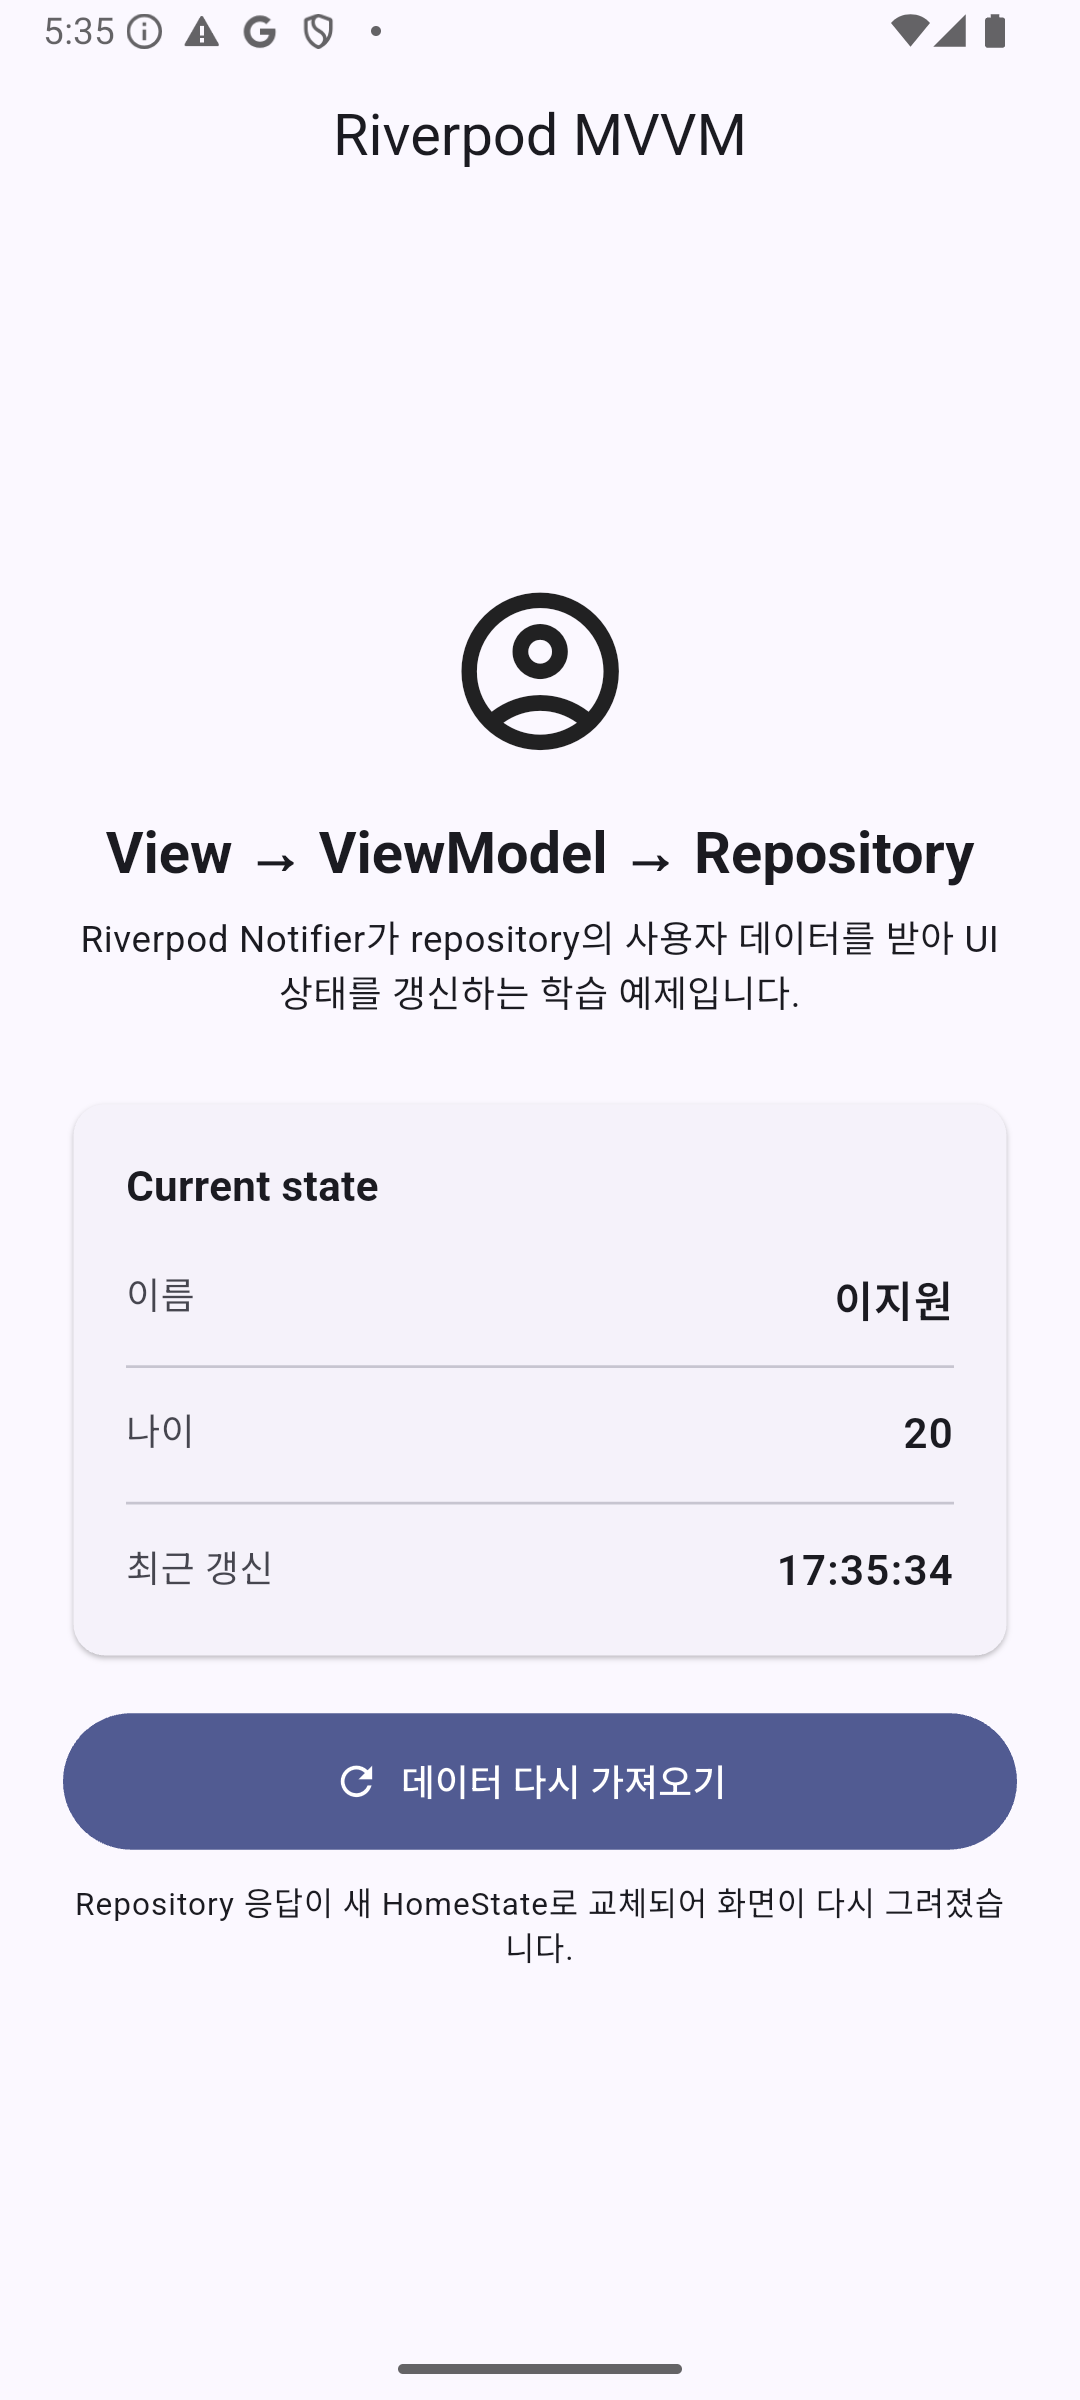
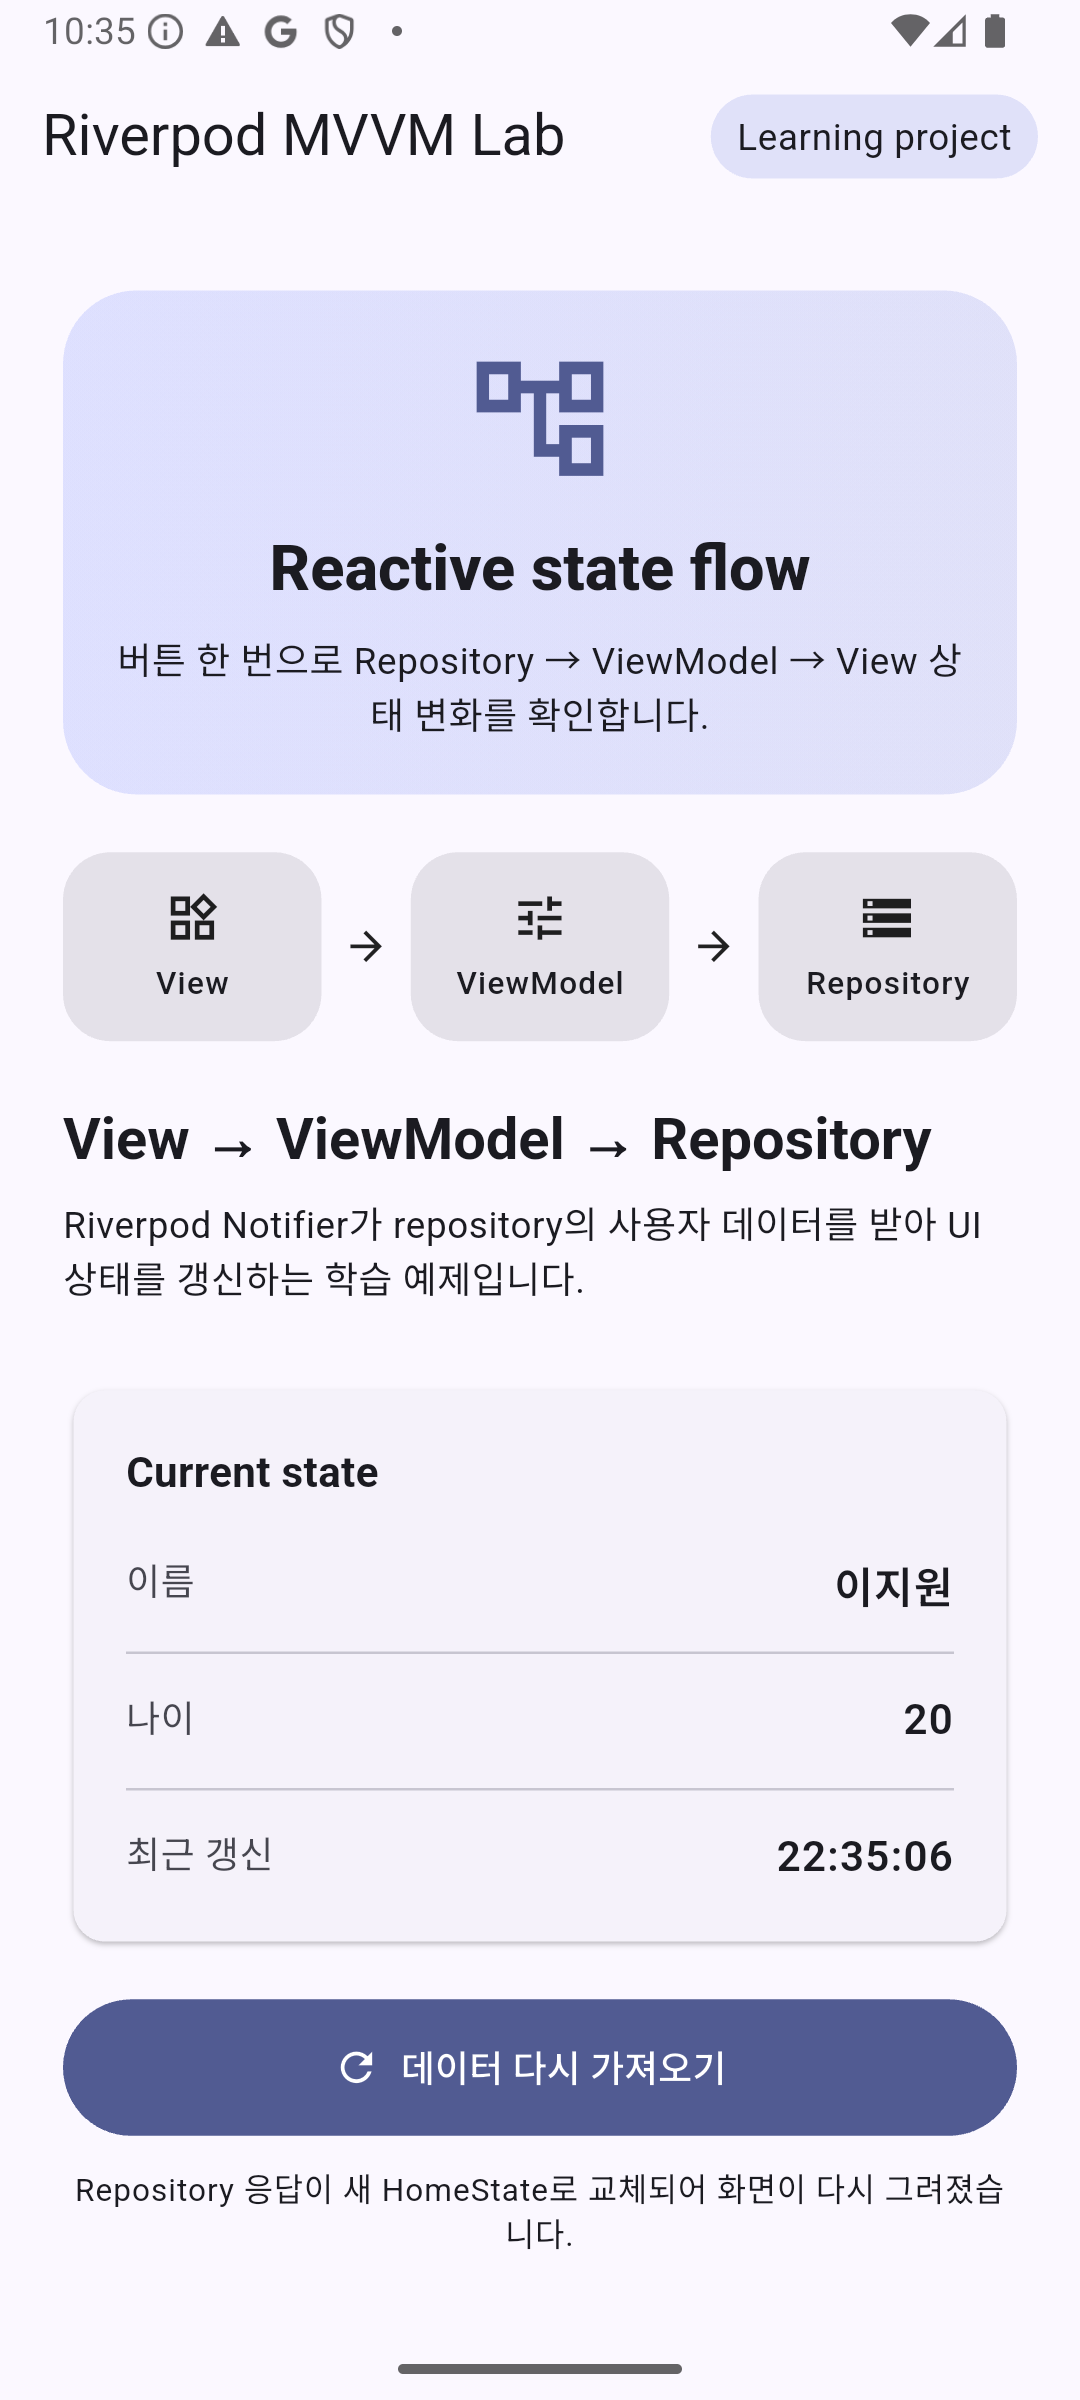
Polish Riverpod MVVM mobile demo

diff --git a/lib/home_page.dart b/lib/home_page.dart
@@ -12,8 +12,23 @@ class HomePage extends ConsumerWidget {
 
     return Scaffold(
       appBar: AppBar(
-        title: const Text('Riverpod MVVM'),
-        centerTitle: true,
+        title: const Text('Riverpod MVVM Lab'),
+        actions: [
+          Padding(
+            padding: const EdgeInsets.only(right: 16),
+            child: Center(
+              child: Container(
+                padding:
+                    const EdgeInsets.symmetric(horizontal: 10, vertical: 6),
+                decoration: BoxDecoration(
+                  color: Theme.of(context).colorScheme.secondaryContainer,
+                  borderRadius: BorderRadius.circular(999),
+                ),
+                child: const Text('Learning project'),
+              ),
+            ),
+          ),
+        ],
       ),
       body: SafeArea(
         child: Center(
@@ -24,11 +39,49 @@ class HomePage extends ConsumerWidget {
               child: Column(
                 crossAxisAlignment: CrossAxisAlignment.stretch,
                 children: [
-                  const Icon(Icons.account_circle_outlined, size: 72),
-                  const SizedBox(height: 18),
+                  Container(
+                    padding: const EdgeInsets.all(20),
+                    decoration: BoxDecoration(
+                      gradient: LinearGradient(
+                        colors: [
+                          Theme.of(context).colorScheme.primaryContainer,
+                          Theme.of(context).colorScheme.secondaryContainer,
+                        ],
+                      ),
+                      borderRadius: BorderRadius.circular(28),
+                    ),
+                    child: Column(
+                      children: [
+                        Icon(
+                          Icons.account_tree_outlined,
+                          size: 58,
+                          color: Theme.of(context).colorScheme.primary,
+                        ),
+                        const SizedBox(height: 12),
+                        Text(
+                          'Reactive state flow',
+                          style: Theme.of(context)
+                              .textTheme
+                              .headlineSmall
+                              ?.copyWith(
+                                fontWeight: FontWeight.w800,
+                              ),
+                        ),
+                        const SizedBox(height: 8),
+                        Text(
+                          '버튼 한 번으로 Repository → ViewModel → View 상태 변화를 확인합니다.',
+                          textAlign: TextAlign.center,
+                          style: Theme.of(context).textTheme.bodyMedium,
+                        ),
+                      ],
+                    ),
+                  ),
+                  const SizedBox(height: 22),
+                  const _FlowRow(),
+                  const SizedBox(height: 22),
                   Text(
                     'View → ViewModel → Repository',
-                    textAlign: TextAlign.center,
+                    textAlign: TextAlign.left,
                     style: Theme.of(context).textTheme.titleLarge?.copyWith(
                           fontWeight: FontWeight.bold,
                         ),
@@ -36,7 +89,7 @@ class HomePage extends ConsumerWidget {
                   const SizedBox(height: 8),
                   Text(
                     'Riverpod Notifier가 repository의 사용자 데이터를 받아 UI 상태를 갱신하는 학습 예제입니다.',
-                    textAlign: TextAlign.center,
+                    textAlign: TextAlign.left,
                     style: Theme.of(context).textTheme.bodyMedium,
                   ),
                   const SizedBox(height: 28),
@@ -58,7 +111,7 @@ class HomePage extends ConsumerWidget {
                           const SizedBox(height: 18),
                           _StateRow(
                             label: '이름',
-                            value: state.user?.name ?? '아직 불러오지 않음',
+                            value: state.user?.name ?? '대기 중',
                           ),
                           const Divider(height: 28),
                           _StateRow(
@@ -78,11 +131,25 @@ class HomePage extends ConsumerWidget {
                   ),
                   const SizedBox(height: 18),
                   FilledButton.icon(
-                    onPressed: () {
-                      ref.read(homeViewModelProvider.notifier).getUser();
-                    },
-                    icon: Icon(hasUser ? Icons.refresh : Icons.download),
-                    label: Text(hasUser ? '데이터 다시 가져오기' : '사용자 데이터 가져오기'),
+                    onPressed: state.isLoading
+                        ? null
+                        : () {
+                            ref.read(homeViewModelProvider.notifier).getUser();
+                          },
+                    icon: state.isLoading
+                        ? const SizedBox(
+                            width: 18,
+                            height: 18,
+                            child: CircularProgressIndicator(strokeWidth: 2),
+                          )
+                        : Icon(hasUser ? Icons.refresh : Icons.download),
+                    label: Text(
+                      state.isLoading
+                          ? 'Repository 응답 기다리는 중'
+                          : hasUser
+                              ? '데이터 다시 가져오기'
+                              : '사용자 데이터 가져오기',
+                    ),
                     style: FilledButton.styleFrom(
                       minimumSize: const Size.fromHeight(52),
                     ),
@@ -107,6 +174,48 @@ class HomePage extends ConsumerWidget {
   String _formatTime(DateTime time) {
     String two(int value) => value.toString().padLeft(2, '0');
     return '${two(time.hour)}:${two(time.minute)}:${two(time.second)}';
+  }
+}
+
+class _FlowRow extends StatelessWidget {
+  const _FlowRow();
+
+  @override
+  Widget build(BuildContext context) {
+    Widget step(IconData icon, String label) {
+      return Expanded(
+        child: Container(
+          padding: const EdgeInsets.symmetric(vertical: 14),
+          decoration: BoxDecoration(
+            color: Theme.of(context).colorScheme.surfaceContainerHighest,
+            borderRadius: BorderRadius.circular(18),
+          ),
+          child: Column(
+            children: [
+              Icon(icon, size: 22),
+              const SizedBox(height: 6),
+              Text(label, style: Theme.of(context).textTheme.labelMedium),
+            ],
+          ),
+        ),
+      );
+    }
+
+    return Row(
+      children: [
+        step(Icons.widgets_outlined, 'View'),
+        const Padding(
+          padding: EdgeInsets.symmetric(horizontal: 8),
+          child: Icon(Icons.arrow_forward, size: 18),
+        ),
+        step(Icons.tune_outlined, 'ViewModel'),
+        const Padding(
+          padding: EdgeInsets.symmetric(horizontal: 8),
+          child: Icon(Icons.arrow_forward, size: 18),
+        ),
+        step(Icons.storage_outlined, 'Repository'),
+      ],
+    );
   }
 }
 

diff --git a/lib/home_view_model.dart b/lib/home_view_model.dart
@@ -4,14 +4,16 @@ import 'package:flutter_riverpod/flutter_riverpod.dart';
 
 // 1. HomePage에서 사용하는 상태 클래스 정의
 class HomeState {
-  HomeState({
+  const HomeState({
     required this.user,
     required this.fetchTime,
+    required this.isLoading,
   });
   // 유저 정보를 가지고 오지 않았을 때에는 User가 null!
-  User? user;
+  final User? user;
   // 데이터를 가지고 온 시간. 마찬가치로 초기에는 null
-  DateTime? fetchTime;
+  final DateTime? fetchTime;
+  final bool isLoading;
 }
 
 // 2. ViewModel 구현 Notifier를 상속
@@ -22,14 +24,23 @@ class HomeViewModel extends Notifier<HomeState> {
   // 3. build 함수 : ViewModel의 최초 상태를 초기화
   @override
   HomeState build() {
-    return HomeState(
+    return const HomeState(
       user: null, // 초기 상태 null
       fetchTime: null,
+      isLoading: false,
     );
   }
 
   // 4. 유저 정보 UserRepository에서 가져와서 상태 업데이트 하는 로직 구현
   void getUser() async {
+    if (state.isLoading) return;
+
+    state = HomeState(
+      user: state.user,
+      fetchTime: state.fetchTime,
+      isLoading: true,
+    );
+
     UserRepository userRepository = UserRepository();
     User user = await userRepository.getUser();
     // 이렇게 사용하면 안됨. Notifier 클래스는 새로운 상태 객체를 사용해야 위젯에게 알려줌
@@ -39,6 +50,7 @@ class HomeViewModel extends Notifier<HomeState> {
     state = HomeState(
       user: user,
       fetchTime: DateTime.now(),
+      isLoading: false,
     );
   }
 }

diff --git a/test/widget_test.dart b/test/widget_test.dart
@@ -7,10 +7,12 @@ void main() {
       (WidgetTester tester) async {
     await tester.pumpWidget(const ProviderScope(child: MyApp()));
 
-    expect(find.text('Riverpod MVVM'), findsOneWidget);
-    expect(find.text('아직 불러오지 않음'), findsOneWidget);
+    expect(find.text('Riverpod MVVM Lab'), findsOneWidget);
+    expect(find.text('대기 중'), findsOneWidget);
 
-    await tester.tap(find.text('사용자 데이터 가져오기'));
+    final fetchButton = find.text('사용자 데이터 가져오기');
+    await tester.ensureVisible(fetchButton);
+    await tester.tap(fetchButton);
     await tester.pump(const Duration(seconds: 1));
     await tester.pump();
 
